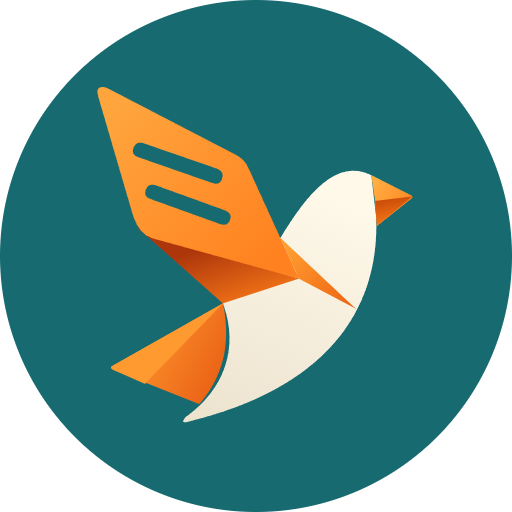
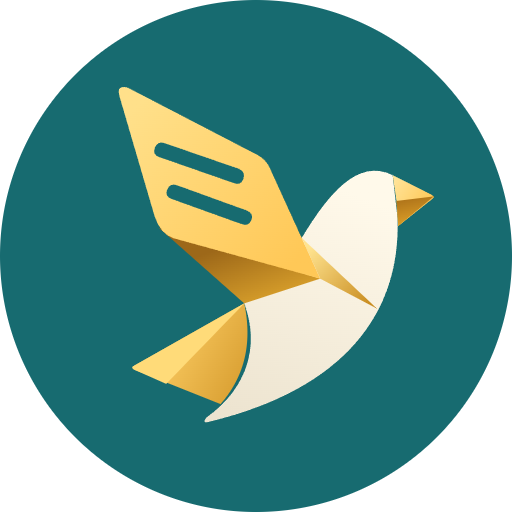
Adopt yellow Wordbird with more wingtip clearance

Changed region(s): [[0.1875, 0.1562, 0.8438, 0.8438]]

diff --git a/tools/generate_brand_assets.py b/tools/generate_brand_assets.py
@@ -11,19 +11,21 @@ ROOT = Path(__file__).resolve().parents[1]
 BRAND = ROOT / "docs/brand"
 RES = ROOT / "app/src/main/res"
 TEAL = "#176B70"
+ACCENT_YELLOW = "#FFC857"  # Matches ui.theme.SyncAmber.
 SCALE = 0.049
-TX, TY = 22.15, 23.522
+# A 3 dp rightward optical correction gives the raised wingtip more space.
+TX, TY = 25.15, 23.522
 
 # Keep every point of the bird within Android's central 66 dp safe circle.
 # The outer 18 dp of each 108 dp adaptive layer is reserved for launcher effects.
 GRADIENTS = {
-    "tail": (280, 850, 580, 1010, [(0, "#FF982F"), (1, "#E75A12")]),
+    "tail": (280, 850, 580, 1010, [(0, "#FFD169"), (1, "#D59A2C")]),
     "body": (810, 420, 540, 1080, [(0, "#FFF9EA"), (1, "#EDE4D0")]),
-    "beak": (990, 402, 1090, 470, [(0, "#FFB044"), (1, "#FF8A24")]),
-    "beakFold": (1020, 457, 1035, 526, [(0, "#C94B08"), (1, "#F47519")]),
-    "underwing": (545, 580, 610, 765, [(0, "#AD360B"), (1, "#F27317")]),
-    "chest": (746, 596, 914, 762, [(0, "#FF9D30"), (1, "#EF6614")]),
-    "wing": (241, 199, 698, 641, [(0, "#FFA53D"), (1, "#FF811F")]),
+    "beak": (990, 402, 1090, 470, [(0, "#FFE397"), (1, ACCENT_YELLOW)]),
+    "beakFold": (1020, 457, 1035, 526, [(0, "#AF741A"), (1, "#D99C27")]),
+    "underwing": (545, 580, 610, 765, [(0, "#9D6819"), (1, "#D9A02B")]),
+    "chest": (746, 596, 914, 762, [(0, "#FFE38F"), (1, "#C98D20")]),
+    "wing": (241, 199, 698, 641, [(0, "#FFE08A"), (1, ACCENT_YELLOW)]),
 }
 
 SLOT_ONE = (
@@ -43,7 +45,7 @@ WING = (
 # Paint order follows the paper folds, from the tail to the lifted wing.
 PATHS = [
     ("tail", "M555,758 L237,938 Q230,943 241,949 L487,1047 Q591,928 555,758 Z"),
-    ("#FF9A31", "M555,758 L237,938 Q230,943 241,949 L331,989 Z"),
+    ("#FFDB79", "M555,758 L237,938 Q230,943 241,949 L331,989 Z"),
     ("body", "M720,570 C796,444 881,340 981,390 L995,512 C1005,789 839,1004 457,1097 Q431,1105 447,1085 C560,1005 602,884 555,758 Z"),
     ("beak", "M981,390 L1094,447 Q1104,452 1094,459 L997,536 L992,464 Z"),
     ("beakFold", "M992,464 L1099,451 L997,536 Z"),

diff --git a/docs/brand/README.md b/docs/brand/README.md
@@ -1,8 +1,8 @@
 # Kaptus Wordbird
 
-<img src="kaptus-icon.png" width="160" height="160" alt="An ivory and orange folded bird inside a teal circle" />
+<img src="kaptus-icon.png" width="160" height="160" alt="An ivory and yellow folded bird inside a teal circle" />
 
-Wordbird is Kaptus's selected brand mark. Its lifted orange wing carries two caption-shaped openings, while the ivory body and folded tail keep it recognizable as a bird at small sizes.
+Wordbird is Kaptus's selected brand mark. Its lifted yellow wing carries two caption-shaped openings, while the ivory body and folded tail keep it recognizable as a bird at small sizes.
 
 The background is teal (`#176B70`). The circular badge has transparent corners. Android uses a separate, full-bleed teal background and transparent bird foreground, so the launcher can apply its own circular or rounded-square mask without black corners or clipped artwork. A dedicated monochrome silhouette supports Android's themed icons.
 
@@ -15,10 +15,10 @@ The background is teal (`#176B70`). The circular badge has transparent corners. 
 
 ## Editing
 
-The editable vector master is [`tools/generate_brand_assets.py`](../../tools/generate_brand_assets.py). It preserves the selected concept's orange folds, ivory body, and upward pose as clean paths and restrained gradients.
+The editable vector master is [`tools/generate_brand_assets.py`](../../tools/generate_brand_assets.py). It preserves the selected concept's yellow folds, ivory body, and upward pose as clean paths and restrained gradients.
 
 Run `python tools/generate_brand_assets.py` from the repository root to regenerate the SVG and Android resources. If the artwork changes, also export the circular SVG to a 512 by 512 PNG with a transparent canvas and replace `kaptus-icon.png`.
 
-The complete bird fits inside Android's central 66 dp safe circle on a 108 dp adaptive layer. Keep this padding when changing the artwork. Kaptus requires Android 13 or newer, so the adaptive resources cover every supported Android version and density.
+The bird is shifted 3 dp right from the first vector draft, leaving more air around its raised wingtip. It fits inside Android's central 66 dp safe circle on a 108 dp adaptive layer. Keep this padding when changing the artwork. Kaptus requires Android 13 or newer, so the adaptive resources cover every supported Android version and density.
 
 The initial selected concept and a circular-badge refinement were created with built-in image generation. The production assets are a vector adaptation, which removes the generated image's transparency artifacts. The generation prompts are recorded in `prompts.json`.

diff --git a/README.md b/README.md
@@ -1,5 +1,5 @@
 <p align="center">
-  <img src="docs/brand/kaptus-icon.png" width="128" height="128" alt="Kaptus Wordbird, an ivory and orange folded bird on a teal circle" />
+  <img src="docs/brand/kaptus-icon.png" width="128" height="128" alt="Kaptus Wordbird, an ivory and yellow folded bird on a teal circle" />
 </p>
 
 # Kaptus
